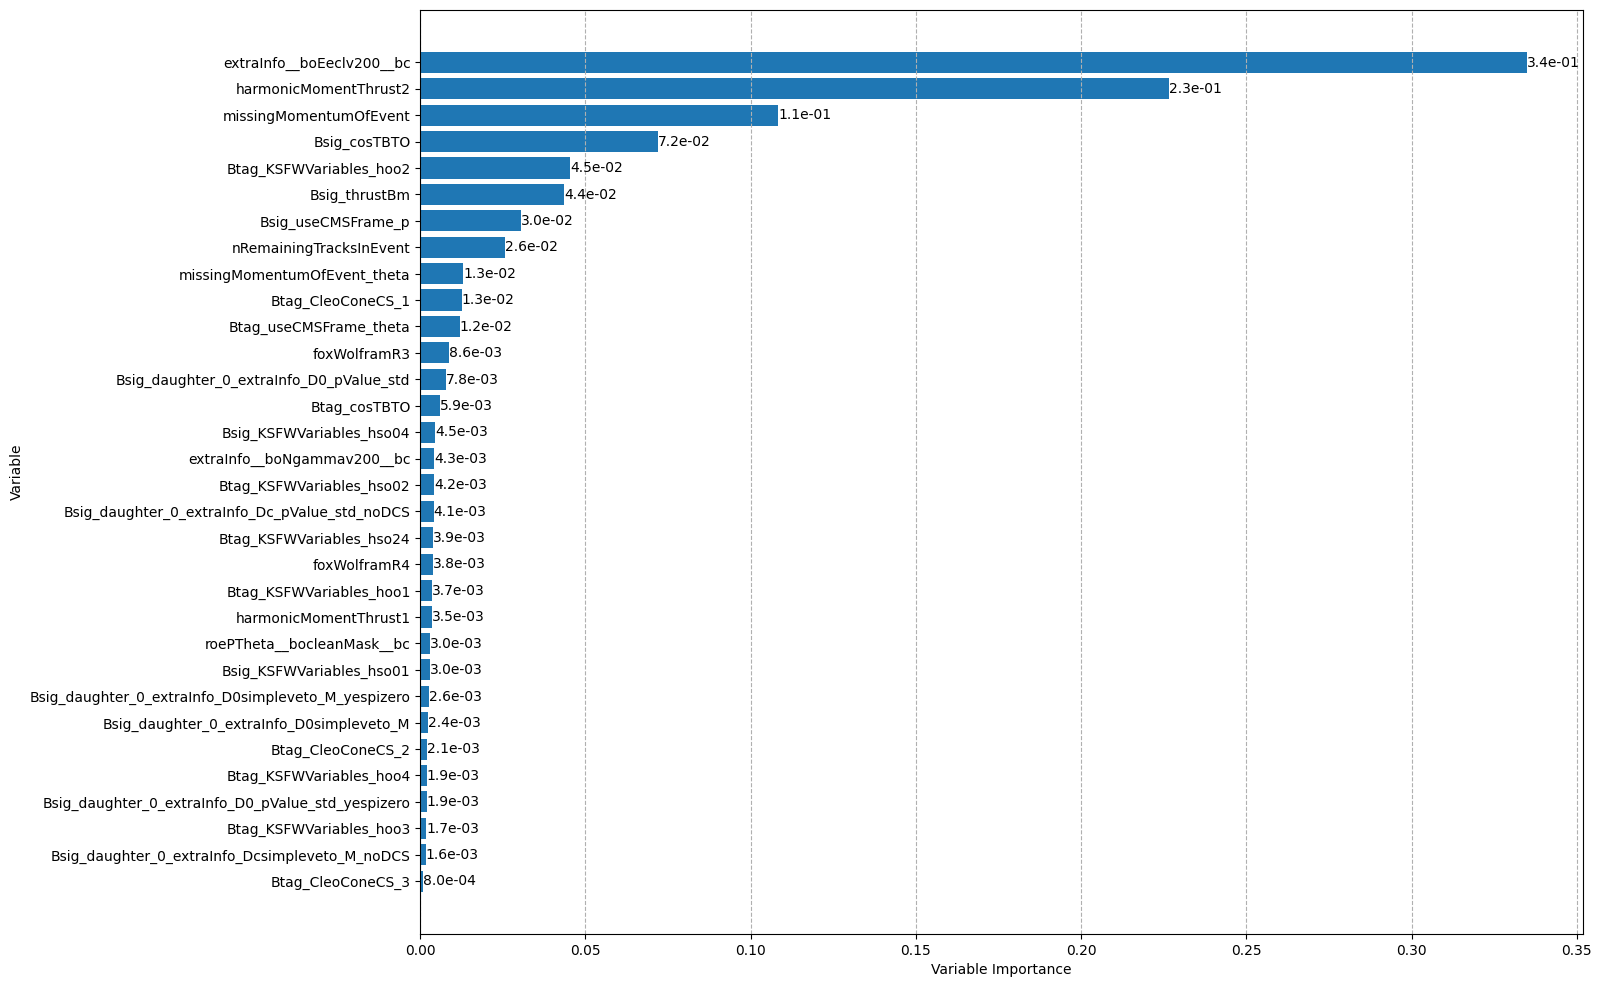
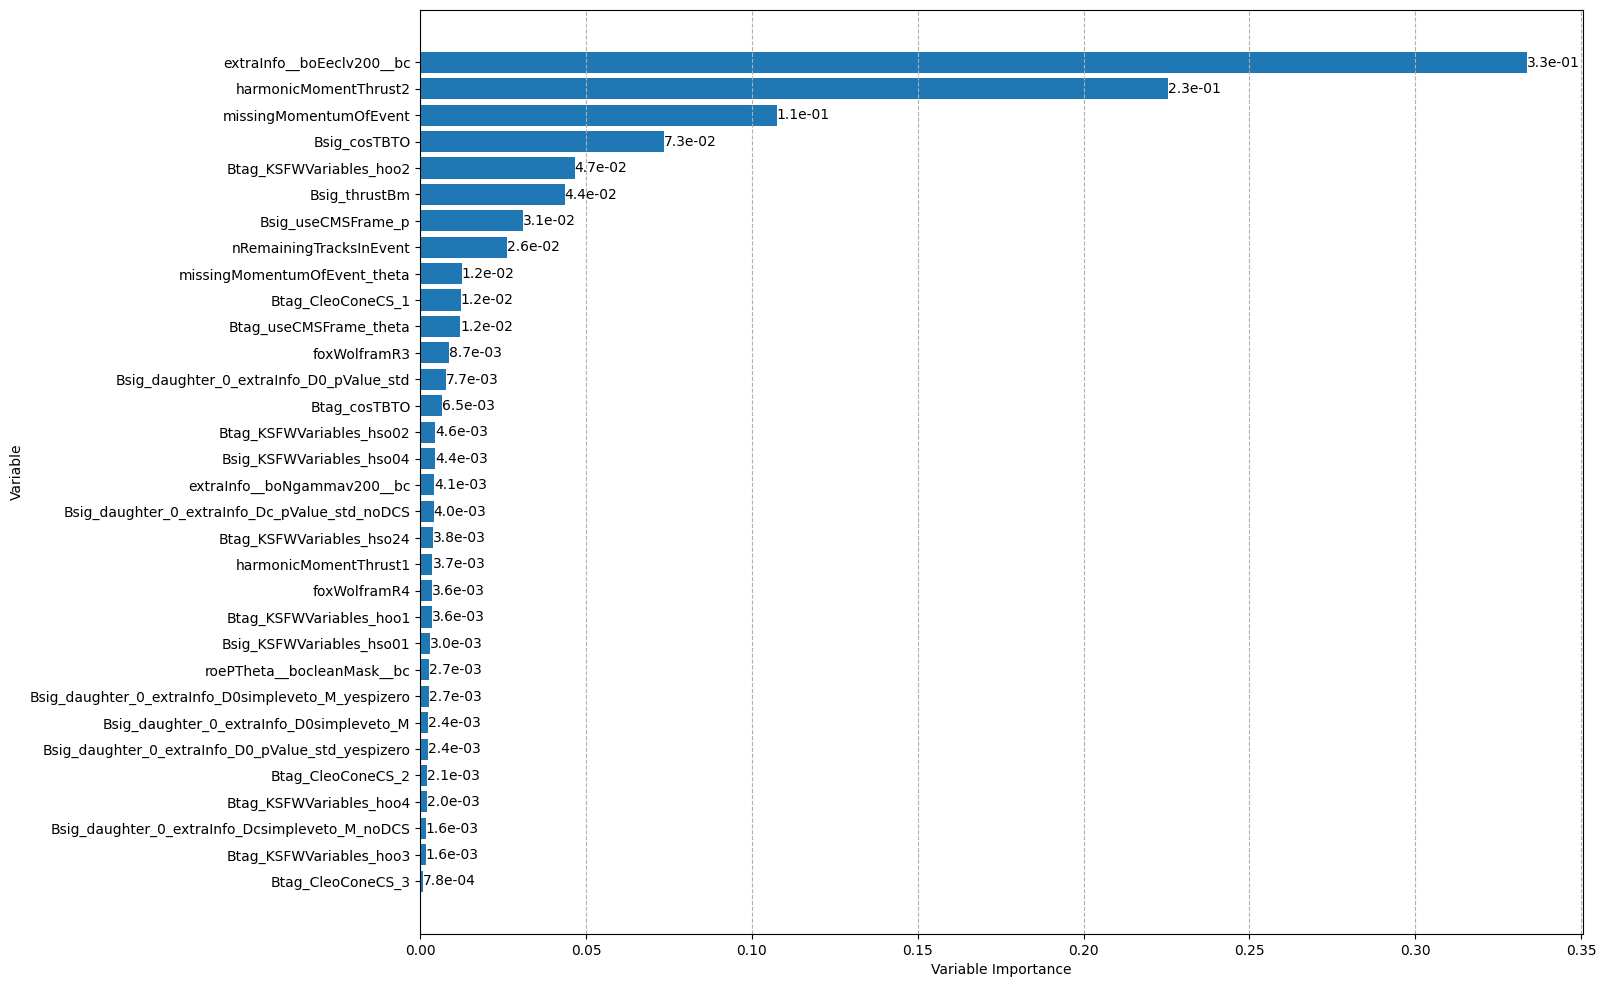
fix margin

diff --git a/FastBDT/Var_importance.py b/FastBDT/Var_importance.py
@@ -9,39 +9,38 @@ import matplotlib.pyplot as plt
 
 import operator
 
-unsorted_list = [('Bsig_cosTBTO',0.0720262),
-('Bsig_KSFWVariables_hso01',0.00298101),
-('Bsig_KSFWVariables_hso04',0.00446538),
-('Bsig_thrustBm',0.0435347),
-('Bsig_useCMSFrame_p',0.0303834),
-('Btag_CleoConeCS_1',0.0125584),
-('Btag_CleoConeCS_2',0.00214436),
-('Btag_CleoConeCS_3',0.000799951),
-('Btag_cosTBTO',0.00591209),
-('Btag_KSFWVariables_hoo1',0.0036583),
-('Btag_KSFWVariables_hoo2',0.045386),
-('Btag_KSFWVariables_hoo3',0.00174413),
-('Btag_KSFWVariables_hoo4',0.00194335),
-('Btag_KSFWVariables_hso02',0.00422073),
-('Btag_KSFWVariables_hso24',0.00387719),
-('Btag_useCMSFrame_theta',0.011977),
-('extraInfo__boEeclv200__bc',0.335058),
-('extraInfo__boNgammav200__bc',0.00425715),
-('foxWolframR3',0.00862743),
-('foxWolframR4',0.00383641),
-('harmonicMomentThrust1',0.00348617),
-('harmonicMomentThrust2',0.226642),
-('missingMomentumOfEvent',0.108332),
-('missingMomentumOfEvent_theta',0.0130551),
-('nRemainingTracksInEvent',0.025718),
-('roePTheta__bocleanMask__bc',0.00298187),
-('Bsig_daughter_0_extraInfo_Dc_pValue_std_noDCS',0.00408601),
-('Bsig_daughter_0_extraInfo_Dcsimpleveto_M_noDCS',0.00160124),
-('Bsig_daughter_0_extraInfo_D0_pValue_std',0.00780082),
-('Bsig_daughter_0_extraInfo_D0simpleveto_M',0.00240111),
-('Bsig_daughter_0_extraInfo_D0_pValue_std_yespizero',0.00193056),
-('Bsig_daughter_0_extraInfo_D0simpleveto_M_yespizero',0.0025739)]
-
+unsorted_list = [('Bsig_cosTBTO',0.0734967),
+('Bsig_KSFWVariables_hso01',0.00295744),
+('Bsig_KSFWVariables_hso04',0.00439809),
+('Bsig_thrustBm',0.0435055),
+('Bsig_useCMSFrame_p',0.0309568),
+('Btag_CleoConeCS_1',0.0121274),
+('Btag_CleoConeCS_2',0.00213454),
+('Btag_CleoConeCS_3',0.00077828),
+('Btag_cosTBTO',0.00652719),
+('Btag_KSFWVariables_hoo1',0.00358606),
+('Btag_KSFWVariables_hoo2',0.0465571),
+('Btag_KSFWVariables_hoo3',0.00159162),
+('Btag_KSFWVariables_hoo4',0.00199616),
+('Btag_KSFWVariables_hso02',0.00458749),
+('Btag_KSFWVariables_hso24',0.00377825),
+('Btag_useCMSFrame_theta',0.012093),
+('extraInfo__boEeclv200__bc',0.333803),
+('extraInfo__boNgammav200__bc',0.00413708),
+('foxWolframR3',0.0086905),
+('foxWolframR4',0.00358842),
+('harmonicMomentThrust1',0.00367437),
+('harmonicMomentThrust2',0.225409),
+('missingMomentumOfEvent',0.107491),
+('missingMomentumOfEvent_theta',0.0124422),
+('nRemainingTracksInEvent',0.0261395),
+('roePTheta__bocleanMask__bc',0.0027493),
+('Bsig_daughter_0_extraInfo_Dc_pValue_std_noDCS',0.00399743),
+('Bsig_daughter_0_extraInfo_Dcsimpleveto_M_noDCS',0.00162415),
+('Bsig_daughter_0_extraInfo_D0_pValue_std',0.00765407),
+('Bsig_daughter_0_extraInfo_D0simpleveto_M',0.00243661),
+('Bsig_daughter_0_extraInfo_D0_pValue_std_yespizero',0.00241626),
+('Bsig_daughter_0_extraInfo_D0simpleveto_M_yespizero',0.00267526)]
 
 sorted_list = sorted(unsorted_list, key=operator.itemgetter(1), reverse=True)
 

diff --git a/FastBDT/ReadGridSearchFile.cc b/FastBDT/ReadGridSearchFile.cc
@@ -147,6 +147,7 @@ int ReadGridSearchFile()
     gr_train->SetTitle(";test AUC rank;AUC");
 
     TCanvas* c = new TCanvas("c1", "AUC", 200, 10, 600, 600);
+    c->SetLeftMargin(0.15);
 
     gr_train->Draw("AP");
     gr_test->Draw("P");
